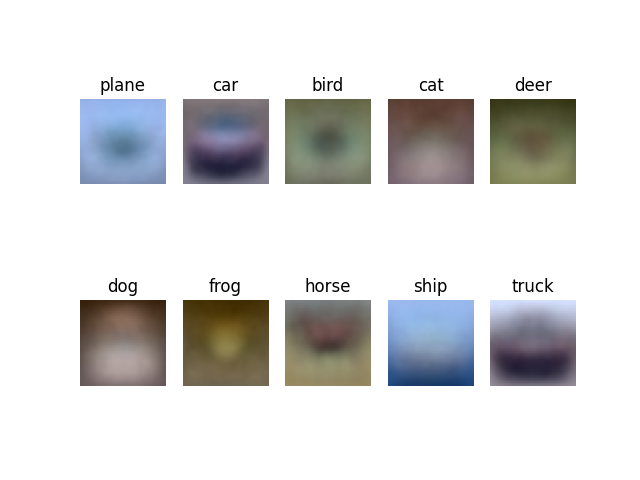
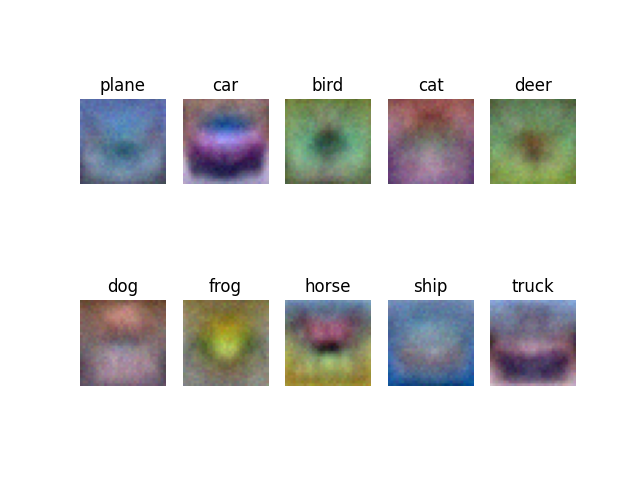
change path to save img

Changed region(s): [[0.125, 0.1875, 0.9062, 0.4062], [0.125, 0.625, 0.9062, 0.8125], [0.5, 0.375, 0.5312, 0.4062]]

diff --git a/src/seminar2.py b/src/seminar2.py
@@ -177,7 +177,7 @@ Test accuracy: {cls.evaluate(x_test, y_test)}
 
     print(report)
 
-    out_dir = 'output/seminar2'
+    out_dir = '../output/seminar2'
     report_path = os.path.join(out_dir, 'report.md')
     with open(report_path, 'w') as f:
         f.write(report)

diff --git a/output/seminar2/report.md b/output/seminar2/report.md
@@ -1,14 +1,14 @@
 # Training Softmax classifier  
-datetime: 2023-09-05 20:00:50  
-Well done in: 24 seconds  
-learning_rate = 0  
-reg = 0  
-num_iters = 0  
-batch_size = 0  
+datetime: 2023-09-30 11:58:33  
+Well done in: 70 seconds  
+learning_rate = 0.0001  
+reg = 0.1  
+num_iters = 15000  
+batch_size = 64  
 
-Final loss: 2.3024465755633834   
-Train accuracy: 0.24694   
-Test accuracy: 0.2496  
+Final loss: 1.7653147819908286   
+Train accuracy: 0.37292   
+Test accuracy: 0.3713  
     
 <img src="weights.png">  
 <br>
